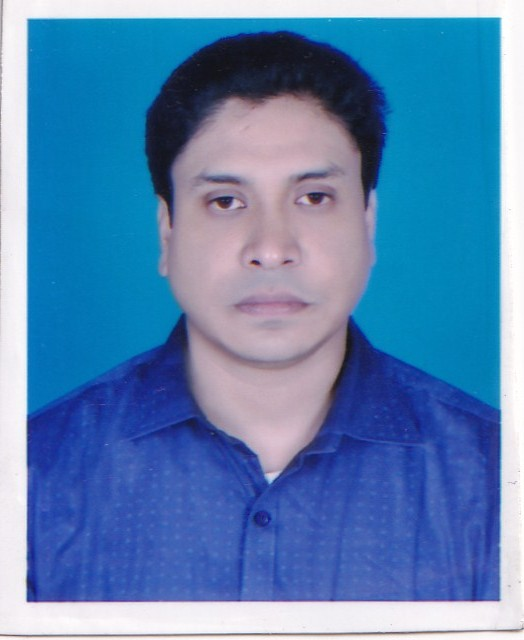
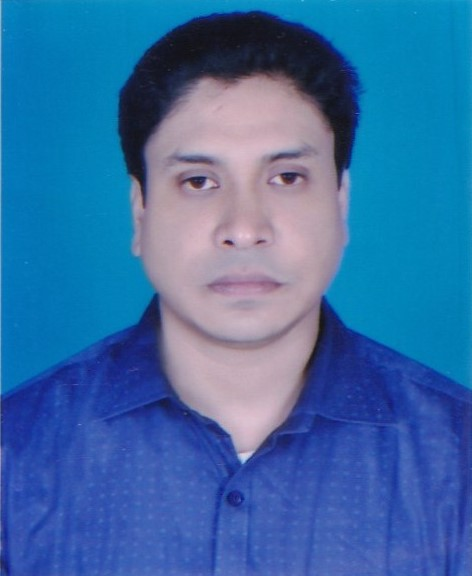
add another  mejor person Sanjay Banik

diff --git a/src/Body/Sidebar/MejorPersonContact/InformationOfficer.jsx b/src/Body/Sidebar/MejorPersonContact/InformationOfficer.jsx
@@ -1,0 +1,26 @@
+import { Link } from "react-router-dom";
+import eduMenester5 from "../../../../public/img/sonjoy_bonik.jpg"
+
+
+export default function InformationOfficer() {
+  return (
+    <div className=" border-[1px] shadow-md rounded-sm border-slate-200 p-1 w-full md:flex gap-10 mb-5 items-center ">
+    <aside className=" md:w-44 w-full mb-5 md:mb-0">
+        <img className=" w-full" src={eduMenester5} alt="" />
+    </aside>
+    <div className=" flex flex-col gap-2">
+        <p className=" text-xs "> </p>
+        <h2 className="font-semibold">সঞ্জয় বণিক <small className=" font-semibold">(তথ্য কর্মকর্তা ও অভিযোগ সমাধান কর্মকর্তা)</small></h2> 
+        <small className=" font-semibold capitalize">phone : 01711378635</small>
+        <small className=" font-semibold capitalize"> email :  bsanjaytpi@gmail.com </small>
+        <ul className="flex gap-2 items-center text-xl font-bold text-white py-3">
+            <li><Link className="px-2 py-1 rounded-full bg-[#49A91D] hover:opacity-70" to={"/"}><i className='bx bxs-phone'></i></Link></li>
+            <li><a target=" _blank" className="px-2 py-1 rounded-full bg-[#326780] hover:opacity-70" href="https://www.facebook.com/TPIBD"> <i className='bx bxl-facebook' ></i></a></li>
+            <li><a target=" _blank" className="px-2 py-1 rounded-full bg-blue-400 hover:opacity-70" href="https://twitter.com"> <i className='bx bxl-twitter' ></i></a></li>
+            <li><a target=" _blank" className="px-2 py-1 rounded-full bg-red-800 hover:opacity-70" href="https://www.youtube.com/watch?v=r-dnObsTLGo"> <i className='bx bxl-youtube' ></i></a></li>
+        </ul>
+    </div>
+    
+</div>
+  )
+}

diff --git a/src/main.jsx b/src/main.jsx
@@ -39,6 +39,7 @@ import Dipumoni from './Body/Sidebar/MejorPersonContact/Dipumoni.jsx';
 import HonorableDeputyMinister from './Body/Sidebar/MejorPersonContact/HonorableDeputyMinister.jsx';
 import TheSecretary from './Body/Sidebar/MejorPersonContact/TheSecretary.jsx';
 import ThePrincipal from './Body/Sidebar/MejorPersonContact/ThePrincipal.jsx';
+import InformationOfficer from './Body/Sidebar/MejorPersonContact/InformationOfficer.jsx';
 
 const router = createBrowserRouter([
   {
@@ -172,6 +173,10 @@ const router = createBrowserRouter([
       {
         path:"/ThePrincipal",
         element: <ThePrincipal></ThePrincipal>
+      },
+      {
+        path:"/InformationOfficer",
+        element: <InformationOfficer></InformationOfficer>
       },
       
     ]

diff --git a/src/Body/Sidebar/MejorPerson.jsx b/src/Body/Sidebar/MejorPerson.jsx
@@ -16,7 +16,7 @@ export default function MejorPerson() {
 
       <MejorP rank="অধ্যক্ষ" names="ইঞ্জি. মোঃ মাকসুদুর রহমান" img={eduMenester4} link="/ThePrincipal"></MejorP>
 
-      <MejorP rank="তথ্য কর্মকর্তা ও অভিযোগ সমাধান কর্মকর্তা" names="ইঞ্জি. সঞ্জয় বণি"  img={eduMenester5} link="/Dipumoni"></MejorP>
+      <MejorP rank="তথ্য কর্মকর্তা ও অভিযোগ সমাধান কর্মকর্তা" names="ইঞ্জি. সঞ্জয় বণি"  img={eduMenester5} link="/InformationOfficer"></MejorP>
     </div>
   )
 }
